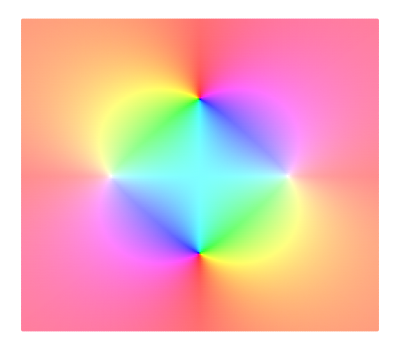
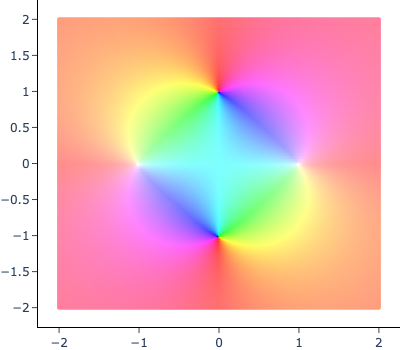
Checkpoint

diff --git a/render.py b/render.py
@@ -3,6 +3,7 @@ import numpy.linalg as la
 import plotly.graph_objects as go
 import os
 
+import mesh2d
 import util
 
 
@@ -21,7 +22,9 @@ class FigureBuilder:
         self.fe = fe
         self.dim = dim
         self.data = []
+        self.img_array = None
         self.options = options
+        
         
         # rendering options
         self.color = "gray"
@@ -131,33 +134,9 @@ class FigureBuilder:
 
         elif self.dim==2:
 
-            # Bit of a hack. There's no 2d go.Mesh, so we just do
-            # a scatter plot of the points.
-            # TODO: kind of slow in Plotly, so maybe resample to
-            # a 100x100 grid might be faster overall? But kind of low-res...
-
-            # flatten points
-            points = polys if vertices is None else vertices
-            points = points.reshape(-1, 2)
-            #print("xxx points after flattening", points.shape)
-
-            if colors is not None:
-                # flatten colors and stringify
-                colors = colors.reshape(-1, 3)
-                #print("xxx colors after flattening", colors.shape)
-                def to_rgb(color):
-                    args = ",".join(f"{int(c*255)}" for c in color)
-                    return f"rgb({args})"
-                with util.Timer("add_polys to rgb"):
-                    colors = [to_rgb(c) for c in colors]
-                #print("xxx colors after to_rgb", len(colors), type(colors), colors[0], type(colors[0]))
-            else:
-                colors = "black"
-
-            mesh = go.Scatter(
-                x=points[:,0], y=points[:,1],
-                mode='markers', marker=dict(color=colors, size=4),
-            )
+            #mesh = mesh2d.mesh2d_markers(vertices, polys, colors) # 600 ms
+            mesh = mesh2d.mesh2d_opencv(vertices, polys, colors) # 70 ms, but image won't stretch
+            #mesh = mesh2d.mesh2d_3d(vertices, polys, colors) # 60 ms, but not done yet - need to rearrange code wrt layout, axes
 
         self.data.append(mesh)
 
@@ -172,17 +151,17 @@ class FigureBuilder:
                 data = np.hstack([(trace.x, trace.y) for trace in self.data])
             data_range = np.array([np.nanmin(data, axis=1), np.nanmax(data, axis=1)]).T
 
+        plot_range = [s if s is not None else d for s, d in zip(self.options.plot_range, data_range)]
+
         #padding = (data_range[:,1] - data_range[:,0]) * 0.05
         #plot-range = np.array([data_range[:,0] - padding, data_range[:,1] + padding]).T
-
-        plot_range = [s if s is not None else d for s, d in zip(self.options.plot_range, data_range)]
 
         if self.dim == 2:
 
             opts = {}
             for i, p in enumerate("xy"):
                 opts[p+"axis"] = dict(
-                    visible = self.options.axes[i],
+                    visible = self.options.axes[i] or self.options.frame,
                     showspikes = False,
                     ticks="outside",
                     range = self.options.plot_range[i],
@@ -198,6 +177,7 @@ class FigureBuilder:
                 margin = dict(l=0, r=0, t=0, b=0),
                 title=dict(text=""),  # Explicitly set title text to an empty string
                 plot_bgcolor='rgba(0,0,0,0)',
+                autosize=True,
                 width=self.options.image_size[0],
                 height=self.options.image_size[1],
                 **opts
@@ -226,7 +206,7 @@ class FigureBuilder:
             )
             for i, p in enumerate("xyz"):
                 scene[p+"axis"] = dict(
-                    visible = self.options.axes[i],
+                    visible = self.options.axes[i] | self.options.frame,
                     range = plot_range[i],
                     showbackground = False,
                     title = "",
@@ -253,6 +233,10 @@ class FigureBuilder:
                 import plotly.io as pio
                 pio.write_image(figure, self.fe.test_image)
                 print("wrote", self.fe.test_image)
+            
+
+
+
 
         return figure
 

diff --git a/mesh2d.py b/mesh2d.py
@@ -1,0 +1,110 @@
+import util
+import cv2
+import numpy as np
+import matplotlib.pyplot as plt
+import plotly.graph_objects as go
+
+
+@util.Timer("mesh2d_opencv")
+def mesh2d_opencv(vertices, polys, colors):
+
+    nx = ny = 200
+    print("xxx nx, ny", nx, ny)
+    print("xxx shapes", vertices.shape, polys.shape, colors.shape)
+
+    # images of requested size
+    img = np.full((nx,ny,3), 0, dtype=np.uint8)
+
+    # scale vertices to nx, ny
+    xs, ys = vertices[...,0], vertices[...,1]
+    x_min, x_max = min(xs), max(xs)
+    y_min, y_max = min(ys), max(ys)
+    xs[...] = (xs - x_min) / (x_max - x_min) * nx
+    ys[...] = (ys - y_min) / (y_max - y_min) * ny
+    
+    # TODO: average poly color instead of vertex 0?
+    colors = colors[polys[:,0],:] * 255
+
+    # expand polys from indices to coordinates
+    # seems not to like fp coordinates though
+    polys = vertices[polys].astype(int)
+
+    # render the polys
+    for poly, color in zip(polys, colors):
+        cv2.fillPoly(img, [poly], color)
+
+    # go.Image doesn't have x, y arrays (unlike other graphic objects)
+    # so we monkey-patch them in because we use it to compute data
+    # range from all the graphic objects later on
+    class Im(go.Image):
+        def __init__(self, x, y, *args, **kwargs):
+            super().__init__(*args, **kwargs)
+            object.__setattr__(self, "x", x)
+            object.__setattr__(self, "y", y)
+            
+    # construct our mesh to add to the figure
+    # flip the image because opencv starts y from the top
+    mesh = Im(
+        z=np.flip(img, axis=0),
+        x0=x_min, dx=(x_max-x_min)/nx, x=xs,
+        y0=y_min, dy=(y_max-y_min)/ny, y=ys,
+    )
+
+    return mesh
+
+
+
+@util.Timer("mesh2d_markers")
+def mesh2d_markers(vertices, polys, colors):
+
+        # Bit of a hack. There's no 2d go.Mesh, so we just do
+        # a scatter plot of the points.
+        # TODO: kind of slow in Plotly, so maybe resample to
+        # a 100x100 grid might be faster overall? But kind of low-res...
+
+        # flatten points
+        points = polys if vertices is None else vertices
+        points = points.reshape(-1, 2)
+        #print("xxx points after flattening", points.shape)
+
+        if colors is not None:
+            # flatten colors and stringify
+            colors = colors.reshape(-1, 3)
+            #print("xxx colors after flattening", colors.shape)
+            def to_rgb(color):
+                args = ",".join(f"{int(c*255)}" for c in color)
+                return f"rgb({args})"
+            with util.Timer("add_polys to rgb"):
+                colors = [to_rgb(c) for c in colors]
+            #print("xxx colors after to_rgb", len(colors), type(colors), colors[0], type(colors[0]))
+        else:
+            colors = "black"
+
+        mesh = go.Scatter(
+            x=points[:,0], y=points[:,1],
+            mode='markers', marker=dict(color=colors, size=4),
+        )
+
+        return mesh
+
+@util.Timer("mesh2d_3d")
+def mesh2d_3d(vertices, polys, colors):
+
+        mesh = go.Mesh3d(
+            x=vertices[:,0], y=vertices[:,1], z=np.full(vertices[:,0].shape, 0),
+            i=polys[:,0], j=polys[:,1], k=polys[:,2],
+            #lighting = lighting,
+            lightposition = dict(x=10000, y=10000, z=10000),
+            # TODO: hmm, colorscale is figure-level, isn't it?
+            #showscale=self.options.showscale,
+            #colorscale=self.options.colorscale,
+            #colorbar=dict(thickness=10),
+            #intensity=vertices[:,2],
+            #color = "rgb(1,.72,.3,1)",
+            #color = self.color,
+            vertexcolor = colors,
+            hoverinfo="none"
+        )
+        return mesh
+
+

diff --git a/consumer.py b/consumer.py
@@ -66,6 +66,9 @@ class GraphicsOptions:
         # Axes
         self.axes = get_option("System`Axes", 3)
 
+        # Frame
+        self.frame = get_option("System`Frame")
+
         # ImageSize, AspectRatio
         # TODO: what if anyting to do with returned aspect?
         width, height, multi, aspect = expr._get_image_size(
@@ -103,7 +106,7 @@ class GraphicsOptions:
         coordinates_tool_options = get_option("System`CoordinatesToolOptions")
         epilog = get_option("System`Epilog")
         format_type = get_option("System`FormatType")
-        frame = get_option("System`Frame")
+        #frame = get_option("System`Frame")
         frame_label = get_option("System`FrameLabel")
         frame_style = get_option("System`FrameStyle")
         frame_ticks = get_option("System`FrameTicks")

diff --git a/demos/demo_230_man_2d_density.m b/demos/demo_230_man_2d_density.m
@@ -1,6 +1,6 @@
 Manipulate[
     DensityPlot[
-        Sin[a x] Cos[b y], {x,0,10 Pi}, {y,0,5 Pi}, Axes -> True
+        Sin[a x] Cos[b y], {x,0,10 Pi}, {y,0,5 Pi}
     ],
     {{a,1}, 0.5, 2, 0.05},
     {{b,1}, 0.5, 2, 0.05}

diff --git a/demos/demo_220_density.m b/demos/demo_220_density.m
@@ -1,3 +1,3 @@
 DensityPlot[
-    Sin[x] Cos[y], {x,0,10 Pi}, {y,0,5 Pi}, Axes -> True
+    Sin[x] Cos[y], {x,0,10 Pi}, {y,0,5 Pi}
 ]
